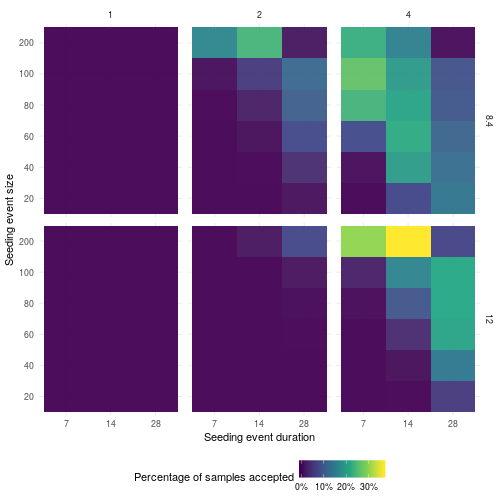
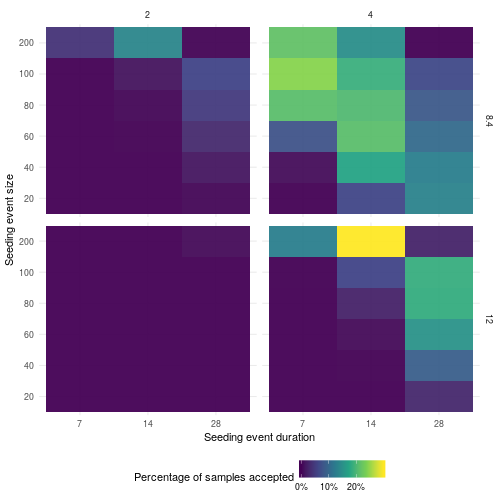
update to data from saturday

diff --git a/vignettes/rendered_output/output.html b/vignettes/rendered_output/output.html
@@ -418,7 +418,7 @@ summary {
 <li>Grid of event size vs event duration with R0 estimates.</li>
 </ul>
 <div class="figure">
[2 lines of base64/hex data omitted]
 <p class="caption">plot of chunk plot-probs</p>
 </div>
 <table>
@@ -433,39 +433,39 @@ summary {
 <tbody>
 <tr class="odd">
 <td align="right">20</td>
-<td align="left">3.6 (3.5 - 3.8)</td>
-<td align="left">3.4 (2 - 4)</td>
-<td align="left">2.9 (1.5 - 4)</td>
+<td align="left">3.6 (3.3 - 3.8)</td>
+<td align="left">3.6 (2 - 4)</td>
+<td align="left">3.1 (1.6 - 4)</td>
 </tr>
 <tr class="even">
 <td align="right">40</td>
-<td align="left">3.4 (2.7 - 4)</td>
-<td align="left">3.1 (1.8 - 4)</td>
-<td align="left">2.5 (1.4 - 4)</td>
+<td align="left">3.5 (2.7 - 4)</td>
+<td align="left">3.3 (2.1 - 4)</td>
+<td align="left">2.6 (1.4 - 4)</td>
 </tr>
 <tr class="odd">
 <td align="right">60</td>
-<td align="left">3.2 (2 - 4)</td>
-<td align="left">2.9 (1.7 - 4)</td>
-<td align="left">2.1 (1.4 - 3.8)</td>
+<td align="left">3.5 (2.3 - 4)</td>
+<td align="left">3.1 (1.8 - 4)</td>
+<td align="left">2.3 (1.6 - 4)</td>
 </tr>
 <tr class="even">
 <td align="right">80</td>
-<td align="left">3.1 (1.8 - 4)</td>
-<td align="left">2.6 (1.4 - 4)</td>
-<td align="left">2 (1.3 - 3.2)</td>
+<td align="left">3.3 (2.1 - 4)</td>
+<td align="left">2.8 (1.9 - 4)</td>
+<td align="left">2.1 (1.5 - 3.4)</td>
 </tr>
 <tr class="odd">
 <td align="right">100</td>
-<td align="left">2.9 (1.7 - 4)</td>
-<td align="left">2.4 (1.5 - 3.8)</td>
-<td align="left">1.8 (1.2 - 3.1)</td>
+<td align="left">3.1 (2.1 - 4)</td>
+<td align="left">2.6 (1.7 - 4)</td>
+<td align="left">2 (1.5 - 3.1)</td>
 </tr>
 <tr class="even">
 <td align="right">200</td>
-<td align="left">2.1 (1.3 - 3.3)</td>
-<td align="left">1.8 (1.1 - 2.9)</td>
-<td align="left">1.4 (1.1 - 2.1)</td>
+<td align="left">2.4 (1.6 - 3.8)</td>
+<td align="left">2 (1.3 - 2.9)</td>
+<td align="left">1.7 (1.6 - 2.1)</td>
 </tr>
 </tbody>
 </table>
@@ -482,38 +482,38 @@ summary {
 <tr class="odd">
 <td align="right">20</td>
 <td align="left">NA</td>
-<td align="left">3.8 (3.2 - 3.9)</td>
-<td align="left">3.6 (2.1 - 4)</td>
+<td align="left">NA</td>
+<td align="left">3.6 (2.4 - 4)</td>
 </tr>
 <tr class="even">
 <td align="right">40</td>
 <td align="left">NA</td>
-<td align="left">3.8 (2.8 - 4)</td>
-<td align="left">3.5 (2.1 - 4)</td>
+<td align="left">3.9 (3.8 - 4)</td>
+<td align="left">3.6 (2.3 - 4)</td>
 </tr>
 <tr class="odd">
 <td align="right">60</td>
-<td align="left">3.4 (3.4 - 3.4)</td>
-<td align="left">3.7 (2.3 - 4)</td>
-<td align="left">3.3 (1.9 - 4)</td>
+<td align="left">NA</td>
+<td align="left">3.8 (3.3 - 4)</td>
+<td align="left">3.4 (2.2 - 4)</td>
 </tr>
 <tr class="even">
 <td align="right">80</td>
-<td align="left">3.8 (3.5 - 4)</td>
-<td align="left">3.6 (2.5 - 4)</td>
-<td align="left">3 (1.8 - 4)</td>
+<td align="left">3.9 (3.9 - 3.9)</td>
+<td align="left">3.8 (3 - 4)</td>
+<td align="left">3.3 (1.9 - 4)</td>
 </tr>
 <tr class="odd">
 <td align="right">100</td>
-<td align="left">3.8 (3 - 4)</td>
-<td align="left">3.6 (2.3 - 4)</td>
-<td align="left">2.8 (1.5 - 4)</td>
+<td align="left">3.9 (3.8 - 4)</td>
+<td align="left">3.7 (2.7 - 4)</td>
+<td align="left">3.1 (1.7 - 4)</td>
 </tr>
 <tr class="even">
 <td align="right">200</td>
-<td align="left">3.4 (1.9 - 4)</td>
-<td align="left">3 (1.6 - 4)</td>
-<td align="left">2 (1.3 - 3.3)</td>
+<td align="left">3.7 (2.5 - 4)</td>
+<td align="left">3.3 (2.1 - 4)</td>
+<td align="left">2.4 (1.7 - 3.3)</td>
 </tr>
 </tbody>
 </table>

diff --git a/docs/articles/output.html b/docs/articles/output.html
@@ -155,39 +155,39 @@
 <tbody>
 <tr class="odd">
 <td align="right">20</td>
-<td align="left">3.6 (3.5 - 3.8)</td>
-<td align="left">3.4 (2 - 4)</td>
-<td align="left">2.9 (1.5 - 4)</td>
+<td align="left">3.6 (3.3 - 3.8)</td>
+<td align="left">3.6 (2 - 4)</td>
+<td align="left">3.1 (1.6 - 4)</td>
 </tr>
 <tr class="even">
 <td align="right">40</td>
-<td align="left">3.4 (2.7 - 4)</td>
-<td align="left">3.1 (1.8 - 4)</td>
-<td align="left">2.5 (1.4 - 4)</td>
+<td align="left">3.5 (2.7 - 4)</td>
+<td align="left">3.3 (2.1 - 4)</td>
+<td align="left">2.6 (1.4 - 4)</td>
 </tr>
 <tr class="odd">
 <td align="right">60</td>
-<td align="left">3.2 (2 - 4)</td>
-<td align="left">2.9 (1.7 - 4)</td>
-<td align="left">2.1 (1.4 - 3.8)</td>
+<td align="left">3.5 (2.3 - 4)</td>
+<td align="left">3.1 (1.8 - 4)</td>
+<td align="left">2.3 (1.6 - 4)</td>
 </tr>
 <tr class="even">
 <td align="right">80</td>
-<td align="left">3.1 (1.8 - 4)</td>
-<td align="left">2.6 (1.4 - 4)</td>
-<td align="left">2 (1.3 - 3.2)</td>
+<td align="left">3.3 (2.1 - 4)</td>
+<td align="left">2.8 (1.9 - 4)</td>
+<td align="left">2.1 (1.5 - 3.4)</td>
 </tr>
 <tr class="odd">
 <td align="right">100</td>
-<td align="left">2.9 (1.7 - 4)</td>
-<td align="left">2.4 (1.5 - 3.8)</td>
-<td align="left">1.8 (1.2 - 3.1)</td>
+<td align="left">3.1 (2.1 - 4)</td>
+<td align="left">2.6 (1.7 - 4)</td>
+<td align="left">2 (1.5 - 3.1)</td>
 </tr>
 <tr class="even">
 <td align="right">200</td>
-<td align="left">2.1 (1.3 - 3.3)</td>
-<td align="left">1.8 (1.1 - 2.9)</td>
-<td align="left">1.4 (1.1 - 2.1)</td>
+<td align="left">2.4 (1.6 - 3.8)</td>
+<td align="left">2 (1.3 - 2.9)</td>
+<td align="left">1.7 (1.6 - 2.1)</td>
 </tr>
 </tbody>
 </table>
@@ -202,38 +202,38 @@
 <tr class="odd">
 <td align="right">20</td>
 <td align="left">NA</td>
-<td align="left">3.8 (3.2 - 3.9)</td>
-<td align="left">3.6 (2.1 - 4)</td>
+<td align="left">NA</td>
+<td align="left">3.6 (2.4 - 4)</td>
 </tr>
 <tr class="even">
 <td align="right">40</td>
 <td align="left">NA</td>
-<td align="left">3.8 (2.8 - 4)</td>
-<td align="left">3.5 (2.1 - 4)</td>
+<td align="left">3.9 (3.8 - 4)</td>
+<td align="left">3.6 (2.3 - 4)</td>
 </tr>
 <tr class="odd">
 <td align="right">60</td>
-<td align="left">3.4 (3.4 - 3.4)</td>
-<td align="left">3.7 (2.3 - 4)</td>
-<td align="left">3.3 (1.9 - 4)</td>
+<td align="left">NA</td>
+<td align="left">3.8 (3.3 - 4)</td>
+<td align="left">3.4 (2.2 - 4)</td>
 </tr>
 <tr class="even">
 <td align="right">80</td>
-<td align="left">3.8 (3.5 - 4)</td>
-<td align="left">3.6 (2.5 - 4)</td>
-<td align="left">3 (1.8 - 4)</td>
+<td align="left">3.9 (3.9 - 3.9)</td>
+<td align="left">3.8 (3 - 4)</td>
+<td align="left">3.3 (1.9 - 4)</td>
 </tr>
 <tr class="odd">
 <td align="right">100</td>
-<td align="left">3.8 (3 - 4)</td>
-<td align="left">3.6 (2.3 - 4)</td>
-<td align="left">2.8 (1.5 - 4)</td>
+<td align="left">3.9 (3.8 - 4)</td>
+<td align="left">3.7 (2.7 - 4)</td>
+<td align="left">3.1 (1.7 - 4)</td>
 </tr>
 <tr class="even">
 <td align="right">200</td>
-<td align="left">3.4 (1.9 - 4)</td>
-<td align="left">3 (1.6 - 4)</td>
-<td align="left">2 (1.3 - 3.3)</td>
+<td align="left">3.7 (2.5 - 4)</td>
+<td align="left">3.3 (2.1 - 4)</td>
+<td align="left">2.4 (1.7 - 3.3)</td>
 </tr>
 </tbody>
 </table>

diff --git a/docs/index.html b/docs/index.html
@@ -133,14 +133,14 @@
 <a href="#docker" class="anchor"></a>Docker</h2>
 <p>This analysis was developed in a docker container based on the tidyverse docker image.</p>
 <p>To build the docker image run (from the <code>WuhanSeedingVsTransmission</code> directory):</p>
-<div class="sourceCode" id="cb4"><pre class="sourceCode bash"><code class="sourceCode bash"><a class="sourceLine" id="cb4-1" data-line-number="1"><span class="ex">docker</span> build . -t WuhanSeedingVsTransmission</a></code></pre></div>
+<div class="sourceCode" id="cb4"><pre class="sourceCode bash"><code class="sourceCode bash"><a class="sourceLine" id="cb4-1" data-line-number="1"><span class="ex">docker</span> build . -t wuhansvst</a></code></pre></div>
 <p>To run the docker image run:</p>
-<div class="sourceCode" id="cb5"><pre class="sourceCode bash"><code class="sourceCode bash"><a class="sourceLine" id="cb5-1" data-line-number="1"><span class="ex">docker</span> run -d -p 8787:8787 --name WuhanSeedingVsTransmission -e USER=WuhanSeedingVsTransmission -e PASSWORD=WuhanSeedingVsTransmission WuhanSeedingVsTransmission</a></code></pre></div>
-<p>The rstudio client can be found on port :8787 at your local machines ip. The default username:password is WuhanSeedingVsTransmission:WuhanSeedingVsTransmission, set the user with -e USER=username, and the password with - e PASSWORD=newpasswordhere. The default is to save the analysis files into the user directory.</p>
-<p>To mount a folder (from your current working directory - here assumed to be <code>tmp</code>) in the docker container to your local system use the following in the above docker run command (as given mounts the whole <code>WuhanSeedingVsTransmission</code> directory to <code>tmp</code>).</p>
-<p><code>{bash, eval = FALSE} --mount type=bind,source=$(pwd)/tmp,target=/home/WuhanSeedingVsTransmission</code></p>
+<div class="sourceCode" id="cb5"><pre class="sourceCode bash"><code class="sourceCode bash"><a class="sourceLine" id="cb5-1" data-line-number="1"><span class="ex">docker</span> run -d -p 8787:8787 --name wuhansvst -e USER=wuhansvst -e PASSWORD=wuhansvst wuhansvst</a></code></pre></div>
+<p>The rstudio client can be found on port :8787 at your local machines ip. The default username:password is wuhansvst:wuhansvst, set the user with -e USER=username, and the password with - e PASSWORD=newpasswordhere. The default is to save the analysis files into the user directory.</p>
+<p>To mount a folder (from your current working directory - here assumed to be <code>tmp</code>) in the docker container to your local system use the following in the above docker run command (as given mounts the whole <code>wuhansvst</code> directory to <code>tmp</code>).</p>
+<p><code>{bash, eval = FALSE} --mount type=bind,source=$(pwd)/tmp,target=/home/wuhansvst</code></p>
 <p>To access the command line run the following:</p>
-<p><code>{bash, eval = FALSE} docker exec -ti WuhanSeedingVsTransmission bash</code></p>
+<p><code>{bash, eval = FALSE} docker exec -ti wuhansvst bash</code></p>
 </div>
 </div>
   </div>

diff --git a/vignettes/output.md b/vignettes/output.md
@@ -55,39 +55,39 @@ Compare R0s across scenarios (reporting median, maximum and minimum):
 <tbody>
 <tr class="odd">
 <td style="text-align: right;">20</td>
-<td style="text-align: left;">3.6 (3.5 - 3.8)</td>
-<td style="text-align: left;">3.4 (2 - 4)</td>
-<td style="text-align: left;">2.9 (1.5 - 4)</td>
+<td style="text-align: left;">3.6 (3.3 - 3.8)</td>
+<td style="text-align: left;">3.6 (2 - 4)</td>
+<td style="text-align: left;">3.1 (1.6 - 4)</td>
 </tr>
 <tr class="even">
 <td style="text-align: right;">40</td>
-<td style="text-align: left;">3.4 (2.7 - 4)</td>
-<td style="text-align: left;">3.1 (1.8 - 4)</td>
-<td style="text-align: left;">2.5 (1.4 - 4)</td>
+<td style="text-align: left;">3.5 (2.7 - 4)</td>
+<td style="text-align: left;">3.3 (2.1 - 4)</td>
+<td style="text-align: left;">2.6 (1.4 - 4)</td>
 </tr>
 <tr class="odd">
 <td style="text-align: right;">60</td>
-<td style="text-align: left;">3.2 (2 - 4)</td>
-<td style="text-align: left;">2.9 (1.7 - 4)</td>
-<td style="text-align: left;">2.1 (1.4 - 3.8)</td>
+<td style="text-align: left;">3.5 (2.3 - 4)</td>
+<td style="text-align: left;">3.1 (1.8 - 4)</td>
+<td style="text-align: left;">2.3 (1.6 - 4)</td>
 </tr>
 <tr class="even">
 <td style="text-align: right;">80</td>
-<td style="text-align: left;">3.1 (1.8 - 4)</td>
-<td style="text-align: left;">2.6 (1.4 - 4)</td>
-<td style="text-align: left;">2 (1.3 - 3.2)</td>
+<td style="text-align: left;">3.3 (2.1 - 4)</td>
+<td style="text-align: left;">2.8 (1.9 - 4)</td>
+<td style="text-align: left;">2.1 (1.5 - 3.4)</td>
 </tr>
 <tr class="odd">
 <td style="text-align: right;">100</td>
-<td style="text-align: left;">2.9 (1.7 - 4)</td>
-<td style="text-align: left;">2.4 (1.5 - 3.8)</td>
-<td style="text-align: left;">1.8 (1.2 - 3.1)</td>
+<td style="text-align: left;">3.1 (2.1 - 4)</td>
+<td style="text-align: left;">2.6 (1.7 - 4)</td>
+<td style="text-align: left;">2 (1.5 - 3.1)</td>
 </tr>
 <tr class="even">
 <td style="text-align: right;">200</td>
-<td style="text-align: left;">2.1 (1.3 - 3.3)</td>
-<td style="text-align: left;">1.8 (1.1 - 2.9)</td>
-<td style="text-align: left;">1.4 (1.1 - 2.1)</td>
+<td style="text-align: left;">2.4 (1.6 - 3.8)</td>
+<td style="text-align: left;">2 (1.3 - 2.9)</td>
+<td style="text-align: left;">1.7 (1.6 - 2.1)</td>
 </tr>
 </tbody>
 </table>
@@ -105,38 +105,38 @@ Compare R0s across scenarios (reporting median, maximum and minimum):
 <tr class="odd">
 <td style="text-align: right;">20</td>
 <td style="text-align: left;">NA</td>
-<td style="text-align: left;">3.8 (3.2 - 3.9)</td>
-<td style="text-align: left;">3.6 (2.1 - 4)</td>
+<td style="text-align: left;">NA</td>
+<td style="text-align: left;">3.6 (2.4 - 4)</td>
 </tr>
 <tr class="even">
 <td style="text-align: right;">40</td>
 <td style="text-align: left;">NA</td>
-<td style="text-align: left;">3.8 (2.8 - 4)</td>
-<td style="text-align: left;">3.5 (2.1 - 4)</td>
+<td style="text-align: left;">3.9 (3.8 - 4)</td>
+<td style="text-align: left;">3.6 (2.3 - 4)</td>
 </tr>
 <tr class="odd">
 <td style="text-align: right;">60</td>
-<td style="text-align: left;">3.4 (3.4 - 3.4)</td>
-<td style="text-align: left;">3.7 (2.3 - 4)</td>
-<td style="text-align: left;">3.3 (1.9 - 4)</td>
+<td style="text-align: left;">NA</td>
+<td style="text-align: left;">3.8 (3.3 - 4)</td>
+<td style="text-align: left;">3.4 (2.2 - 4)</td>
 </tr>
 <tr class="even">
 <td style="text-align: right;">80</td>
-<td style="text-align: left;">3.8 (3.5 - 4)</td>
-<td style="text-align: left;">3.6 (2.5 - 4)</td>
-<td style="text-align: left;">3 (1.8 - 4)</td>
+<td style="text-align: left;">3.9 (3.9 - 3.9)</td>
+<td style="text-align: left;">3.8 (3 - 4)</td>
+<td style="text-align: left;">3.3 (1.9 - 4)</td>
 </tr>
 <tr class="odd">
 <td style="text-align: right;">100</td>
-<td style="text-align: left;">3.8 (3 - 4)</td>
-<td style="text-align: left;">3.6 (2.3 - 4)</td>
-<td style="text-align: left;">2.8 (1.5 - 4)</td>
+<td style="text-align: left;">3.9 (3.8 - 4)</td>
+<td style="text-align: left;">3.7 (2.7 - 4)</td>
+<td style="text-align: left;">3.1 (1.7 - 4)</td>
 </tr>
 <tr class="even">
 <td style="text-align: right;">200</td>
-<td style="text-align: left;">3.4 (1.9 - 4)</td>
-<td style="text-align: left;">3 (1.6 - 4)</td>
-<td style="text-align: left;">2 (1.3 - 3.3)</td>
+<td style="text-align: left;">3.7 (2.5 - 4)</td>
+<td style="text-align: left;">3.3 (2.1 - 4)</td>
+<td style="text-align: left;">2.4 (1.7 - 3.3)</td>
 </tr>
 </tbody>
 </table>
